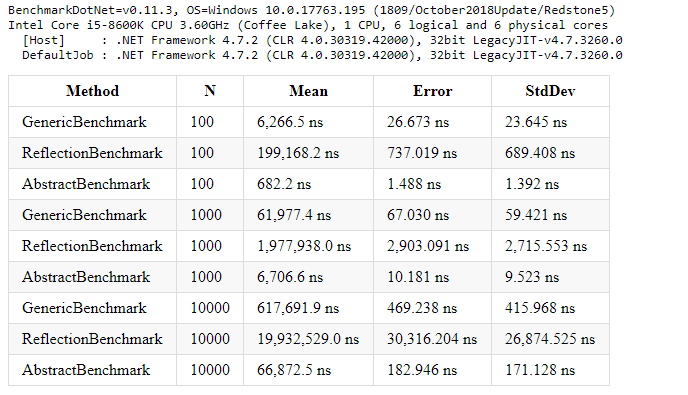
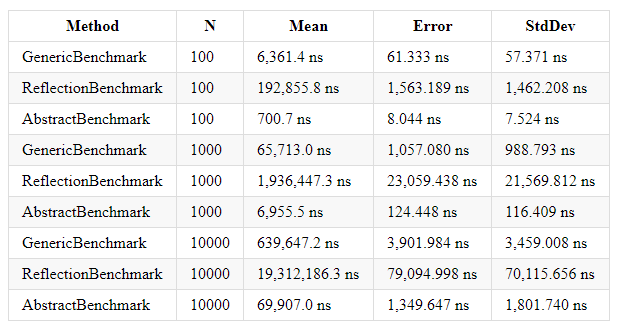
Fix reflection factory implementation

diff --git a/02Fabryka/Students/2018/MilekPatryk/Factories/Implementation/ReflectionFactory/ReflectionFactory.cs b/02Fabryka/Students/2018/MilekPatryk/Factories/Implementation/ReflectionFactory/ReflectionFactory.cs
@@ -1,5 +1,6 @@
 using System;
 using System.Collections.Generic;
+using System.Linq;
 using System.Reflection;
 using Factories.Models.Abstract;
 using Factories.Models.Hyundai;
@@ -8,9 +9,10 @@ namespace Factories.Implementation.ReflectionFactory
 {
     public class ReflectionFactory
     {
-        public Car Create(string manufacturer, string carType)
+        public Car Create(string name)
         {
-            CarTypeDictionary.TryGetValue((manufacturer, carType), out var type);
+            CarTypeDictionary.TryGetValue(name, out var type);
+
             if (type == null)
             {
                 throw new Exception("Car with given parameters is not supported.");
@@ -18,12 +20,7 @@ namespace Factories.Implementation.ReflectionFactory
             return (Car) Assembly.GetExecutingAssembly().CreateInstance(type.ToString());
         }
 
-        private static readonly Dictionary<(string, string), Type> CarTypeDictionary = new Dictionary<(string, string), Type>
-        {
-            { ("Hyundai", "Electric"), typeof(HyundaiElectric) },
-            { ("Hyundai", "Combustion"), typeof(HyundaiCombustion) },
-            { ("Hyundai", "Hybrid"), typeof(HyundaiHybrid) },
-        };
+        private readonly Dictionary<string, Type> CarTypeDictionary;
 
 
         private static ReflectionFactory _instance;
@@ -31,7 +28,10 @@ namespace Factories.Implementation.ReflectionFactory
 
         private ReflectionFactory()
         {
-
+            var types = Assembly.GetAssembly(typeof(Car))
+                .GetTypes()
+                .Where(x => x.IsSubclassOf(typeof(Car)) && !x.IsAbstract);
+            CarTypeDictionary = types.ToDictionary(x => x.Name, x => x);
         }
 
         public static ReflectionFactory GetInstance()

diff --git a/02Fabryka/Students/2018/MilekPatryk/Factories.Tests/Implementation/ReflectionFactory/ReflectionFactoryTests.cs b/02Fabryka/Students/2018/MilekPatryk/Factories.Tests/Implementation/ReflectionFactory/ReflectionFactoryTests.cs
@@ -13,9 +13,9 @@ namespace Factories.Tests.Implementation.ReflectionFactory
             var factory = Factories.Implementation.ReflectionFactory.ReflectionFactory.GetInstance();
 
             // Act
-            var combustionHyundai = factory.Create("Hyundai", "Combustion");
-            var electricHyundai = factory.Create("Hyundai", "Electric");
-            var hybridHyundai = factory.Create("Hyundai", "Hybrid");
+            var combustionHyundai = factory.Create("HyundaiCombustion");
+            var electricHyundai = factory.Create("HyundaiElectric");
+            var hybridHyundai = factory.Create("HyundaiHybrid");
 
             // Assert
             Assert.IsInstanceOf<HyundaiCombustion>(combustionHyundai);

diff --git a/02Fabryka/Students/2018/MilekPatryk/Factories.Tests/Benchmarks/FactoriesBenchmarks.cs b/02Fabryka/Students/2018/MilekPatryk/Factories.Tests/Benchmarks/FactoriesBenchmarks.cs
@@ -45,7 +45,7 @@ namespace Factories.Tests.Benchmarks
         {
             for (var i = 0; i < N; i++)
             {
-                _reflectionFactory.Create("Hyundai", "Electric");
+                _reflectionFactory.Create("HyundaiElectric");
             }
         }
 
